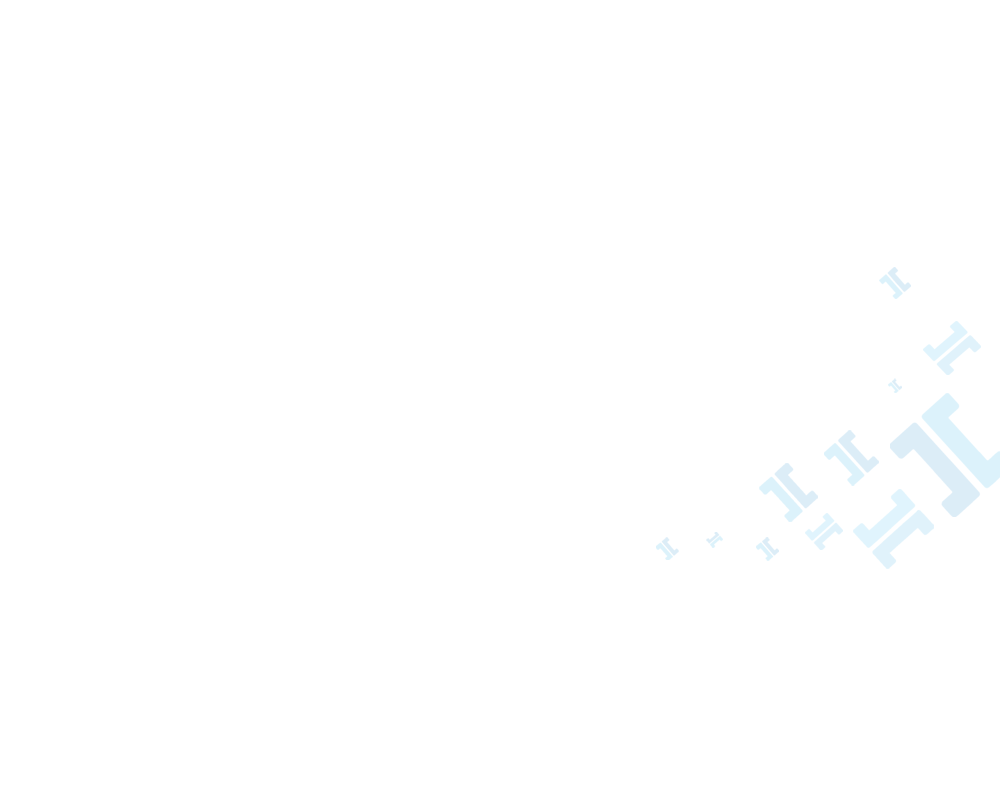
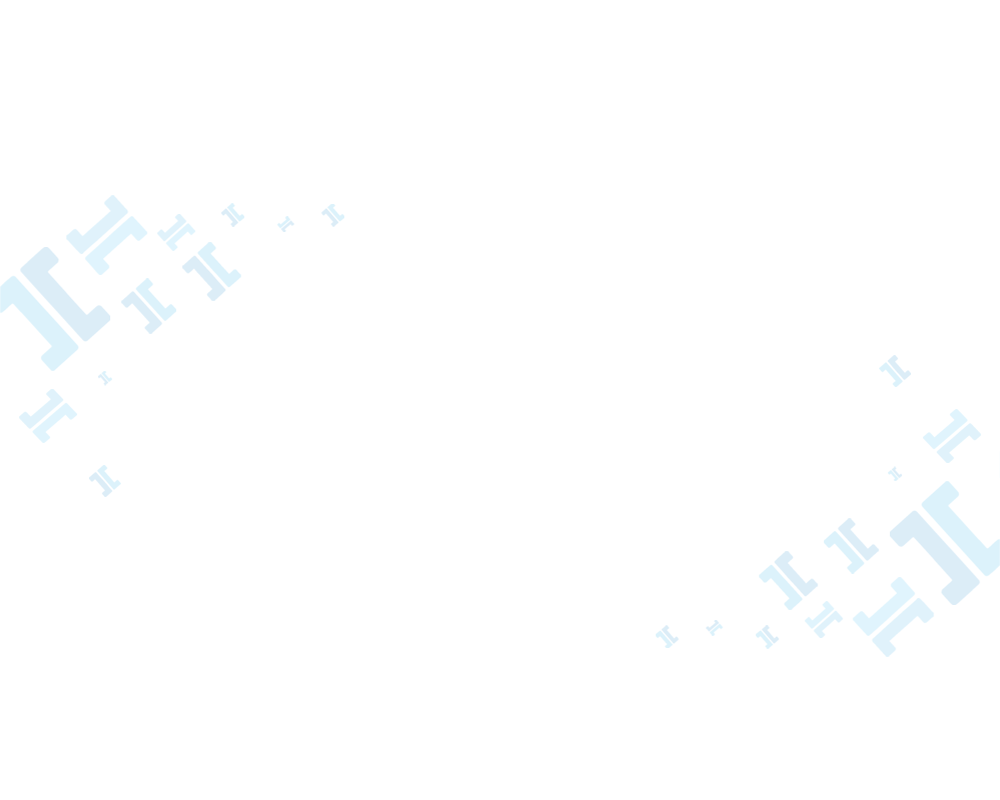
changes color and text in footer

diff --git a/public/assets/css/style.css b/public/assets/css/style.css
@@ -89,7 +89,7 @@ section {
 
 .breadcrumbs {
     padding: 15px 0;
-    background: #012970;
+    background: #133b7e;
     min-height: 40px;
     margin-top: 93px;
     color: #fff;
@@ -267,7 +267,7 @@ section {
     font-family: "Nunito", sans-serif;
     font-size: 16px;
     font-weight: 700;
-    color: #013289;
+    color: #133b7e;
     white-space: nowrap;
     transition: 0.3s;
 }
@@ -281,7 +281,7 @@ section {
 .navbar a:hover,
 .navbar .active,
 .navbar li:hover>a {
-    color: #4154f1;
+    color: #0fb1e6;
 }
 
 .navbar .getstarted {
@@ -807,7 +807,7 @@ section {
 --------------------------------------------------------------*/
 
 #features {
-    background: url("../img/Background1.png");
+    background: url("../img/Background3.png");
     background-size: cover;
     background-position: center;
 }
@@ -1573,7 +1573,10 @@ section {
 --------------------------------------------------------------*/
 
 .team {
-    background: #fff;
+    background: url("../img/Background1.png");
+    background-size: cover;
+    background-position: center;
+    background-attachment: fixed;
     padding: 60px 0;
 }
 
@@ -2310,7 +2313,7 @@ section {
     font-size: 16px;
     padding: 0 15px;
     margin: -1px;
-    background: #4154f1;
+    background: #133b7e;
     color: #fff;
     transition: 0.3s;
     border-radius: 0 4px 4px 0;

diff --git a/resources/views/landingcontent/footer.blade.php b/resources/views/landingcontent/footer.blade.php
@@ -55,7 +55,7 @@
 
         <div class="col-lg-3 col-md-12 footer-contact text-center text-md-start">
             <h4>Contact Us</h4>
-            <p>Benito Labao St. Roosevelt,<br>
+            <p>Benito Labao Ext. Roosevelt,<br>
             Brgy. Saray-Tibanga 9200 Iligan City <br>
             <strong>Tel No:</strong> (063) 228-4272 or (063) 302 9758<br>
             <strong>Email:</strong> pylonglobal@gmail.com<br>
